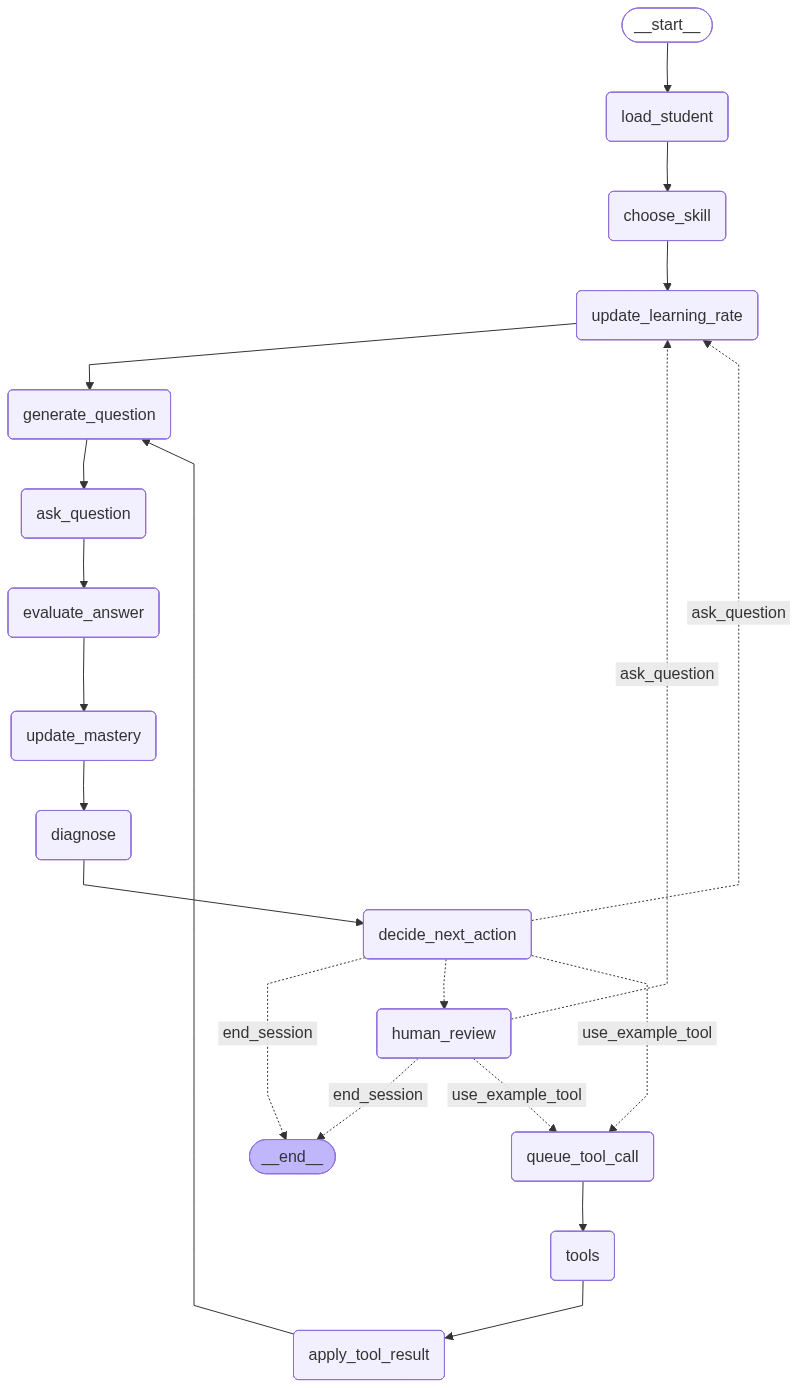
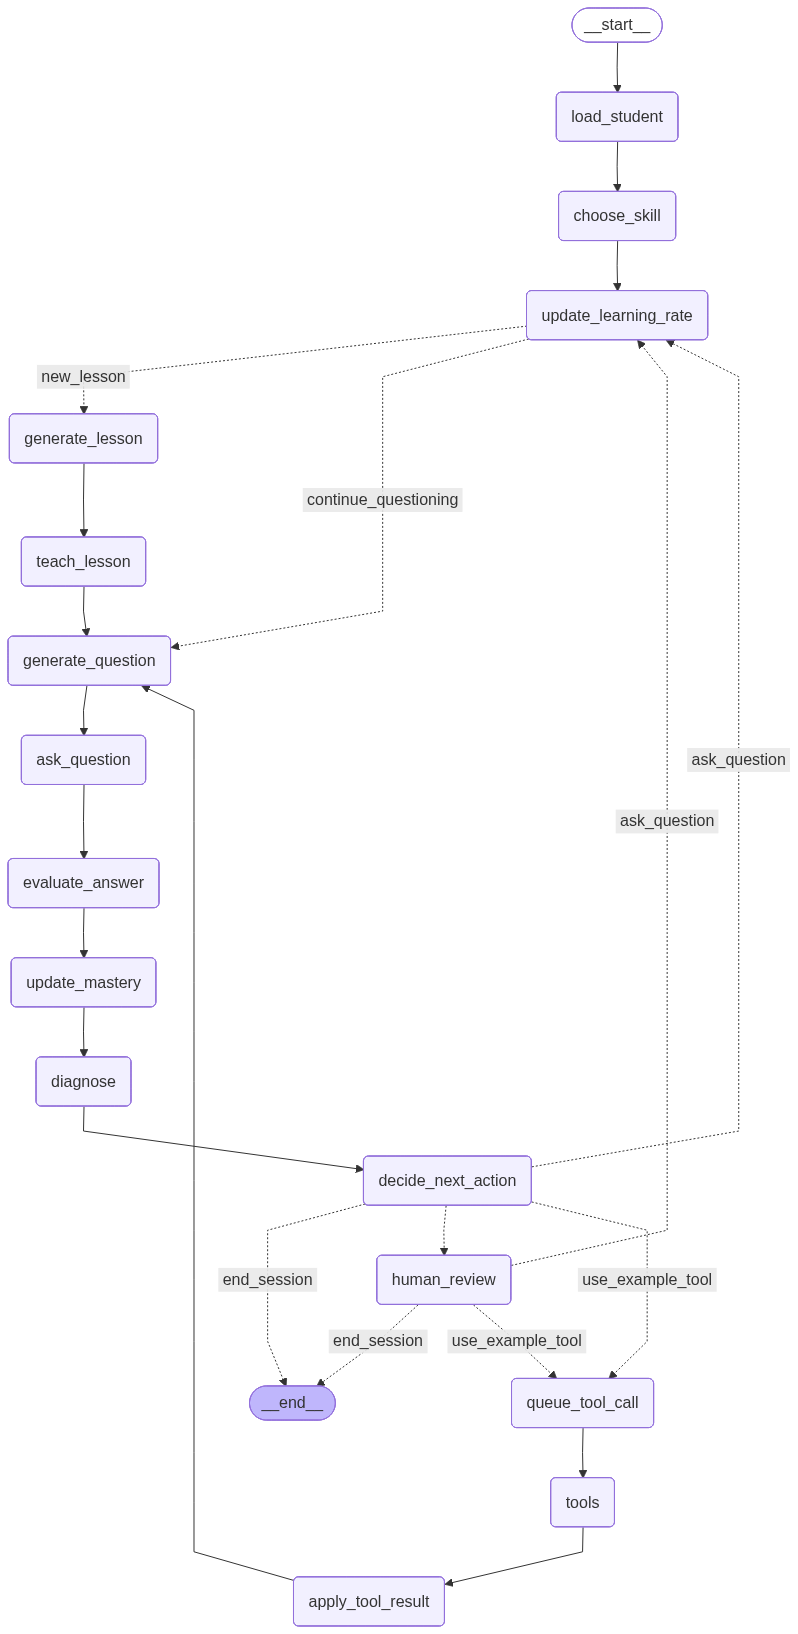
conditional_edge to split lessor or question

diff --git a/app.py b/app.py
@@ -61,11 +61,12 @@ def graph_config():
     return {"configurable": {"thread_id": st.session_state.thread_id}}
 
 
-def build_initial_state(student_id: str, mastery: dict[str, float], learning_rates: dict[str, float]):
+def build_initial_state(student_id: str, mastery: dict[str, float], learning_rates: dict[str, float], skill_answered_questions: dict[str, int]):
     return {
         "student_id": student_id,
         "mastery": mastery,
         "learning_rates": learning_rates,
+        "skill_answered_questions": skill_answered_questions,
         "current_skill": "",
         "current_lesson": "",
         "total_lessons": 0,
@@ -114,8 +115,8 @@ def session_finished():
     return not interrupts and not nxt
 
 
-def start_session(student_id: str, mastery: dict[str, float], learning_rates: dict[str, float]):
-    initial_state = build_initial_state(student_id, mastery, learning_rates)
+def start_session(student_id: str, mastery: dict[str, float], learning_rates: dict[str, float], skill_answered_questions: dict[str, int]):
+    initial_state = build_initial_state(student_id, mastery, learning_rates, skill_answered_questions)
     graph.invoke(initial_state, config=graph_config())
     st.session_state.started = True
     st.session_state.history = []
@@ -194,11 +195,18 @@ with st.sidebar:
         "thermodynamics": 0.15,
     }
 
+    skill_answered_questions_input = {
+        "motion": 0,
+        "force": 0,
+        "energy": 0,
+        "thermodynamics": 0,
+    }
+
     c1, c2 = st.columns(2)
     with c1:
         if st.button("Start / Restart", use_container_width=True):
             reset_session()
-            start_session(student_id, mastery_input, learning_rates_input)
+            start_session(student_id, mastery_input, learning_rates_input, skill_answered_questions_input)
             st.rerun()
 
     with c2:

diff --git a/tutor/builder.py b/tutor/builder.py
@@ -27,6 +27,8 @@ builder = StateGraph(TutorState)
 builder.add_node("load_student", load_student)
 builder.add_node("choose_skill", choose_skill)
 builder.add_node("update_learning_rate", update_learning_rate)
+builder.add_node("generate_lesson", generate_lesson)
+builder.add_node("teach_lesson", teach_lesson)
 builder.add_node("generate_question", generate_question)
 builder.add_node("ask_question", ask_question)
 builder.add_node("evaluate_answer", evaluate_answer)
@@ -41,12 +43,23 @@ builder.add_node("apply_tool_result", apply_tool_result)
 builder.add_edge(START, "load_student")
 builder.add_edge("load_student", "choose_skill")
 builder.add_edge("choose_skill", "update_learning_rate")
-builder.add_edge("update_learning_rate", "generate_question")
+# builder.add_edge("update_learning_rate", "generate_question")
+builder.add_edge("generate_lesson", "teach_lesson")
+builder.add_edge("teach_lesson", "generate_question")
 builder.add_edge("generate_question", "ask_question")
 builder.add_edge("ask_question", "evaluate_answer")
 builder.add_edge("evaluate_answer", "update_mastery")
 builder.add_edge("update_mastery", "diagnose")
 builder.add_edge("diagnose", "decide_next_action")
+
+builder.add_conditional_edges(
+    "update_learning_rate",
+    route_after_lr_update,
+    {
+        "new_lesson": "generate_lesson",
+        "continue_questioning": "generate_question"
+    },
+)
 
 builder.add_conditional_edges(
     "decide_next_action",

diff --git a/tutor/routers.py b/tutor/routers.py
@@ -11,10 +11,10 @@ def route_after_human_review(state: TutorState):
 
 def route_after_lr_update(state: TutorState):
     skill = state["current_skill"]
-    answered_questions = state["answered_questions"][skill]
+    skill_answered_questions = state["skill_answered_questions"][skill]
 
-    if answered_questions > 6:
-        state["answered_questions"][skill] = 0
+    if skill_answered_questions > 6:
+        state["skill_answered_questions"][skill] = 0
         return "new_lesson"
     else:
         return "continue_questioning"

diff --git a/tutor/schemas/state.py b/tutor/schemas/state.py
@@ -8,7 +8,7 @@ class TutorState(TypedDict):
     student_id: str
     mastery: dict[str, float]
     learning_rates: dict[str, float]
-    answered_questions: dict[str, int]
+    skill_answered_questions: dict[str, int]
 
     current_skill: str
     current_question: str
